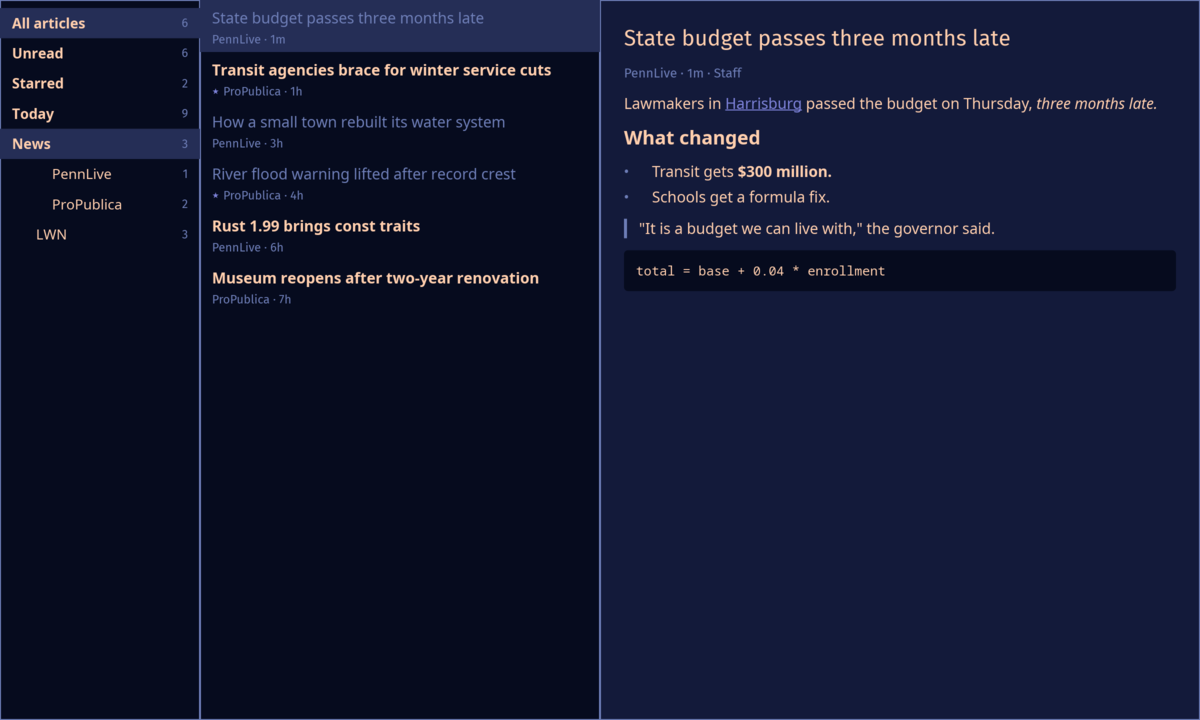
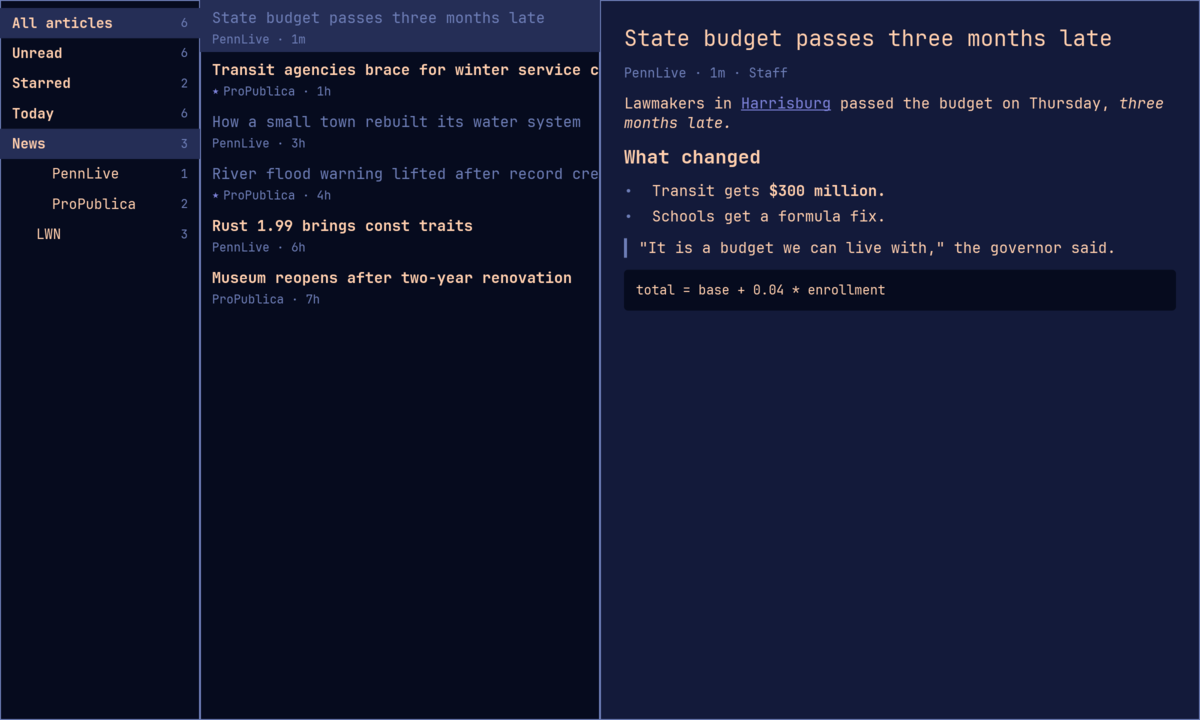
S4.2: Font from fc-match monospace; size from config (#33)
* S4.2: start font from fontconfig

* S4.2: find the desktop font with fc-match monospace

* S4.2: [font] size in config.toml, 8 to 32

* S4.2: draw text in the desktop font; scale the window with the font size

* S4.2: changelog, install page, ready for review

* S4.2: theme screenshots in the desktop font

diff --git a/site/index.html b/site/index.html
@@ -70,7 +70,14 @@
 gutenberg --add &lt;feed-url&gt;     # add an RSS, Atom or JSON feed</pre>
   <p>Bind it in <code>~/.config/hypr/bindings.conf</code>:</p>
   <pre class="block">bindd = SUPER, N, News, exec, gutenberg</pre>
-  <p>Layout lives in <code>~/.config/gutenberg/config.toml</code> and applies as you save.</p>
+  <p>Layout and text size live in <code>~/.config/gutenberg/config.toml</code> and apply as you save. The font is your desktop's monospace font, the one <code>omarchy font set</code> picks.</p>
+  <pre class="block">[layout]
+sources = 2
+list = 4
+article = 6
+
+[font]
+size = 14   # 8 to 32</pre>
 
   <h2>Verify</h2>
   <p>Every release tarball has a build attestation from this repository's release workflow. With the GitHub CLI:</p>

diff --git a/crates/ui/src/lib.rs b/crates/ui/src/lib.rs
@@ -53,6 +53,7 @@ pub fn run(
     config_path: Option<PathBuf>,
     store_path: Option<PathBuf>,
 ) -> iced::Result {
+    use_desktop_font();
     iced::application(
         move || App::new(config.clone(), config_path.clone(), store_path.as_deref()),
         App::update,
@@ -60,6 +61,7 @@ pub fn run(
     )
     .title("Gutenberg")
     .subscription(App::subscription)
+    .scale_factor(App::scale_factor)
     .window(window::Settings {
         // Hyprland draws the borders; no client-side decorations.
         decorations: false,
@@ -72,6 +74,37 @@ pub fn run(
         ..Default::default()
     })
     .run()
+}
+
+/// Draws all text in the desktop's font: fontconfig's `monospace` family,
+/// which `omarchy-font-set` sets, stands in for iced's sans-serif and
+/// monospace families, so plain, bold, italic and code text all use it.
+/// Without fontconfig, or for a family no font file provides, iced's own
+/// choices stay; then this returns `false`.
+fn use_desktop_font() -> bool {
+    let Some(family) = gutenberg_theme::font::monospace() else {
+        return false;
+    };
+    let mut fonts = iced::advanced::graphics::text::font_system()
+        .write()
+        .unwrap_or_else(std::sync::PoisonError::into_inner);
+    let db = fonts.raw().db_mut();
+    let installed = db
+        .faces()
+        .any(|face| face.families.iter().any(|(name, _)| *name == family));
+    if !installed {
+        eprintln!("gutenberg: font {family:?}: no font file has it; using the default font");
+        return false;
+    }
+    db.set_sans_serif_family(family.clone());
+    db.set_monospace_family(family);
+    true
+}
+
+/// Text sizes in the code are for a 14 px font; `[font] size` scales the
+/// whole window from there, so rows and padding grow with the text.
+fn scale_factor(config: &Config) -> f32 {
+    f32::from(config.font.size) / f32::from(config::Font::DEFAULT_SIZE)
 }
 
 struct App {
@@ -499,13 +532,15 @@ impl App {
                     self.reload();
                 }
             }
-            Message::Resized(size) => {
-                self.height = size.height;
-                self.top = list::scroll_to_show(self.top, self.selected, self.list_height())
-                    .min(list::max_top(self.rows.len(), self.list_height()));
-            }
+            Message::Resized(size) => self.set_height(size.height),
             Message::Frame(at) => return self.bench_frame(at),
-            Message::ConfigChanged(config) => self.config = config,
+            Message::ConfigChanged(config) => {
+                // iced sends no resize when the scale factor changes, but the
+                // same window is now a different number of logical pixels.
+                let height = self.height * self.scale_factor() / scale_factor(&config);
+                self.config = config;
+                self.set_height(height);
+            }
             Message::Press(entry) => {
                 self.drag = Some(Drag {
                     origin: entry,
@@ -613,6 +648,18 @@ impl App {
         } else {
             self.height
         }
+    }
+
+    /// The window is `height` logical pixels tall: keeps the selected row
+    /// in view and the list from scrolling past its end.
+    fn set_height(&mut self, height: f32) {
+        self.height = height;
+        self.top = list::scroll_to_show(self.top, self.selected, self.list_height())
+            .min(list::max_top(self.rows.len(), self.list_height()));
+    }
+
+    fn scale_factor(&self) -> f32 {
+        scale_factor(&self.config)
     }
 
     /// Moves a source or folder in the store, then shows the new order.
@@ -1418,8 +1465,19 @@ pub mod shots {
         app.choose(Entry::Folder(news));
         app.open(0);
 
+        // iced_test draws `Font::DEFAULT` in Fira Sans; with the desktop
+        // font in place, the monospace family is the same font the app's
+        // default (sans-serif) family is.
+        let settings = iced_test::core::Settings {
+            default_font: if use_desktop_font() {
+                Font::MONOSPACE
+            } else {
+                Font::DEFAULT
+            },
+            ..Default::default()
+        };
         let mut simulator = iced_test::simulator::Simulator::with_size(
-            iced_test::core::Settings::default(),
+            settings,
             iced::Size::new(size.0, size.1),
             app.view(),
         );
@@ -1833,6 +1891,26 @@ mod tests {
         assert_eq!(app.top, 6);
         let _ = app.update(Message::Scroll(ScrollDelta::Lines { x: 0.0, y: -100.0 }));
         assert_eq!(app.top, 90);
+    }
+
+    #[test]
+    fn a_bigger_font_keeps_the_selected_row_on_screen() {
+        let mut app = app_with(100);
+        for _ in 0..9 {
+            let _ = app.update(Message::Key(Action::Down));
+        }
+        // Row 9 is the last of 10 whole rows at 14 px.
+        assert_eq!((app.selected, app.top), (9, 0));
+        let mut config = Config::default();
+        config.font.size = 28;
+        let _ = app.update(Message::ConfigChanged(config.clone()));
+        // Twice the size, half the rows: 5 fit, so row 9 is the fifth.
+        assert_eq!(app.top, 5);
+        config.font.size = 14;
+        let _ = app.update(Message::ConfigChanged(config));
+        // Back to 10 rows; `G` lands where it did before.
+        let _ = app.update(Message::Key(Action::Last));
+        assert_eq!((app.selected, app.top), (99, 90));
     }
 
     #[test]

diff --git a/crates/core/src/config.rs b/crates/core/src/config.rs
@@ -13,6 +13,31 @@ use serde::Deserialize;
 pub struct Config {
     pub layout: Layout,
     pub refresh: Refresh,
+    pub font: Font,
+}
+
+/// Text. The face is the desktop's (fontconfig's `monospace`); only the
+/// size is set here.
+#[derive(Debug, Clone, Copy, PartialEq, Eq, Hash, Deserialize)]
+#[serde(default, deny_unknown_fields)]
+pub struct Font {
+    /// Pixels for list and sidebar text; the rest of the window scales with
+    /// it. Between [`Font::MIN_SIZE`] and [`Font::MAX_SIZE`].
+    pub size: u16,
+}
+
+impl Font {
+    pub const DEFAULT_SIZE: u16 = 14;
+    pub const MIN_SIZE: u16 = 8;
+    pub const MAX_SIZE: u16 = 32;
+}
+
+impl Default for Font {
+    fn default() -> Self {
+        Self {
+            size: Self::DEFAULT_SIZE,
+        }
+    }
 }
 
 /// Relative pane widths. 0 hides a pane.
@@ -62,6 +87,13 @@ pub enum Error {
     },
     #[error("{}: [layout] needs at least one pane wider than 0", path.display())]
     NoPanes { path: PathBuf },
+    #[error(
+        "{}: [font] size must be from {} to {}",
+        path.display(),
+        Font::MIN_SIZE,
+        Font::MAX_SIZE
+    )]
+    FontSize { path: PathBuf },
     #[error("watch {}: {source}", path.display())]
     Watch {
         path: PathBuf,
@@ -106,6 +138,11 @@ impl Config {
         let l = config.layout;
         if l.sources == 0 && l.list == 0 && l.article == 0 {
             return Err(Error::NoPanes {
+                path: path.to_owned(),
+            });
+        }
+        if !(Font::MIN_SIZE..=Font::MAX_SIZE).contains(&config.font.size) {
+            return Err(Error::FontSize {
                 path: path.to_owned(),
             });
         }
@@ -214,6 +251,18 @@ mod tests {
     fn hiding_every_pane_is_rejected() {
         let err = parse("[layout]\nsources = 0\nlist = 0\narticle = 0").unwrap_err();
         assert!(matches!(err, Error::NoPanes { .. }));
+    }
+
+    #[test]
+    fn font_size_is_14_and_bounded() {
+        assert_eq!(parse("").unwrap().font.size, 14);
+        assert_eq!(parse("[font]\nsize = 18").unwrap().font.size, 18);
+        assert_eq!(parse("[font]\nsize = 8").unwrap().font.size, 8);
+        assert_eq!(parse("[font]\nsize = 32").unwrap().font.size, 32);
+        for size in [0, 7, 33] {
+            let err = parse(&format!("[font]\nsize = {size}")).unwrap_err();
+            assert!(matches!(err, Error::FontSize { .. }), "{size}");
+        }
     }
 
     #[test]

diff --git a/crates/theme/src/font.rs b/crates/theme/src/font.rs
@@ -1,0 +1,41 @@
+//! The desktop's font. Omarchy's `omarchy-font-set` writes a `monospace`
+//! alias into fontconfig, and every app on the desktop resolves that alias;
+//! so does this.
+
+use std::process::{Command, Stdio};
+
+/// The family fontconfig gives for `monospace`, such as "JetBrainsMono Nerd
+/// Font". `None` without fontconfig or when it names nothing.
+pub fn monospace() -> Option<String> {
+    let output = Command::new("fc-match")
+        .args(["--format=%{family[0]}", "monospace"])
+        .stdin(Stdio::null())
+        .stderr(Stdio::null())
+        .output()
+        .ok()?;
+    if !output.status.success() {
+        return None;
+    }
+    family(&output.stdout)
+}
+
+/// The family in `fc-match`'s output, trimmed; `None` if there is none.
+fn family(output: &[u8]) -> Option<String> {
+    let name = std::str::from_utf8(output).ok()?.trim();
+    (!name.is_empty()).then(|| name.to_owned())
+}
+
+#[cfg(test)]
+mod tests {
+    use super::*;
+
+    #[test]
+    fn family_is_the_trimmed_output_or_none() {
+        assert_eq!(
+            family(b"JetBrainsMono Nerd Font\n").as_deref(),
+            Some("JetBrainsMono Nerd Font")
+        );
+        assert_eq!(family(b"  \n"), None);
+        assert_eq!(family(b"\xff\xfe"), None);
+    }
+}

diff --git a/crates/theme/src/lib.rs b/crates/theme/src/lib.rs
@@ -1,5 +1,7 @@
 //! See CLAUDE.md for what this crate owns.
 
+pub mod font;
+
 use std::path::{Path, PathBuf};
 
 /// An sRGB color, 8 bits per channel.

diff --git a/docs/BACKLOG.md b/docs/BACKLOG.md
@@ -42,8 +42,8 @@ Epics in build order. Each story is one PR, sized for a day or less. "Done" mean
 | ID | Story | Acceptance | Status |
 | --- | --- | --- | --- |
 | S4.1 | Read `colors.toml` from both Omarchy theme paths and map to UI tokens | Each stock Omarchy theme renders with readable contrast; screenshots in `docs/themes/` | review |
-| S4.2 | Font from `fc-match monospace`; size from config | Changing the font with `omarchy-font-set` changes the app | todo |
-| S4.3 | Hook drop-in and inotify fallback reload the theme live | `omarchy theme set` changes the app within 1 s with no restart | todo |
+| S4.2 | Font from `fc-match monospace`; size from config | Changing the font with `omarchy-font-set` changes the app | review |
+| S4.3 | Hook drop-in and inotify fallback reload the theme live (and the font, on the `font-set` hook: S4.2 points iced's sans-serif and monospace families at the fontconfig family once at launch, so a live change has to reset them and clear cosmic-text's font-match cache and iced's text caches) | `omarchy theme set` changes the app within 1 s with no restart | todo |
 | S4.4 | Built-in fallback theme when no Omarchy is found | Runs on stock Ubuntu with a sane look | todo |
 | S4.5 | Light mode from the theme's `mode` key | Light themes don't show dark panes | todo |
 

diff --git a/CHANGELOG.md b/CHANGELOG.md
@@ -3,6 +3,7 @@
 ## Unreleased
 
 - Gutenberg now takes its colors from your Omarchy theme, light themes included, instead of always looking like Tokyo Night. Where a theme's dim text or link color would be hard to read, it is brightened (or darkened) just enough to read. Themes from before Omarchy 4 work too. Changing the theme still needs a restart for now.
+- Text is in your desktop's monospace font, the one `omarchy font set` chooses, like the terminal and Waybar; after changing it, restart Gutenberg to see it. Set the text size with `size` under `[font]` in `~/.config/gutenberg/config.toml` (8 to 32, default 14); the whole window scales with it, and edits apply as you save.
 
 ## 0.9.0 — 2026-10-23
 

diff --git a/docs/themes/README.md b/docs/themes/README.md
@@ -7,7 +7,7 @@ ICED_TEST_BACKEND=tiny-skia cargo run -p gutenberg-ui --features shots \
     --example theme_shots -- tests/fixtures/themes docs/themes
 ```
 
-To render what's installed instead, pass `/usr/share/omarchy/themes` as the first argument.
+To render what's installed instead, pass `/usr/share/omarchy/themes` as the first argument. Text is in the rendering machine's desktop font, as in the app (`fc-match monospace`; JetBrainsMono Nerd Font here).
 
 ## The checks
 
